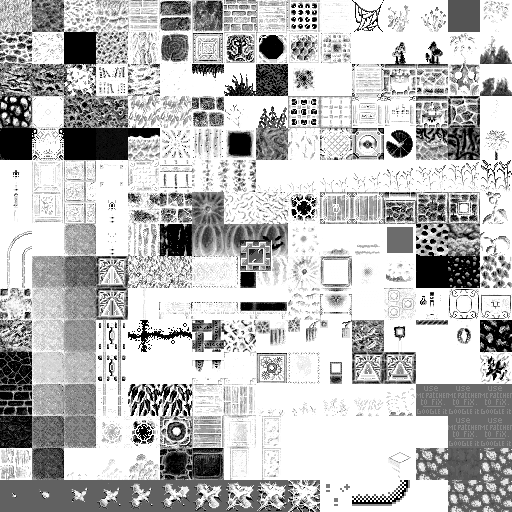
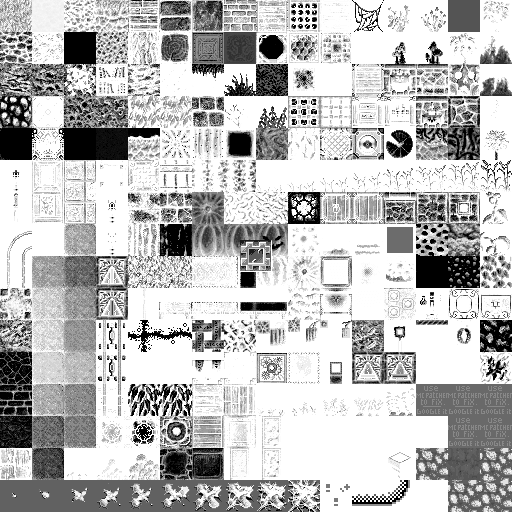
Fancy PBR textures rendering

diff --git a/src/Chunk.cpp b/src/Chunk.cpp
@@ -423,13 +423,13 @@ void Chunk::generateMesh() {
 
 						vec3 blockColor = vec3(1.0f) * ((float)getTorchlight(x + 1, y, z) / 15.0f);
 
-                        ms.vertex(1.0f+x,  0.0f+y,  0.0f+z,  1.0f*ao100, 0.0f, 0.0f,  blockColor.x, blockColor.y, blockColor.z, /*ao100,*/  uv1.x, uv2.y);
-                        ms.vertex(1.0f+x,  1.0f+y,  0.0f+z,  1.0f*ao110, 0.0f, 0.0f,  blockColor.x, blockColor.y, blockColor.z, /*ao110,*/  uv1.x, uv1.y);
-                        ms.vertex(1.0f+x,  1.0f+y,  1.0f+z,  1.0f*ao111, 0.0f, 0.0f,  blockColor.x, blockColor.y, blockColor.z, /*ao111,*/  uv2.x, uv1.y);
+                        ms.vertex(1.0f+x,  0.0f+y,  0.0f+z,  1.0f*ao100, 0.0f, 0.0f,  0.0f, 0.0f, 1.0f, /*ao100,*/  uv1.x, uv2.y);
+                        ms.vertex(1.0f+x,  1.0f+y,  0.0f+z,  1.0f*ao110, 0.0f, 0.0f,  0.0f, 0.0f, 1.0f, /*ao110,*/  uv1.x, uv1.y);
+                        ms.vertex(1.0f+x,  1.0f+y,  1.0f+z,  1.0f*ao111, 0.0f, 0.0f,  0.0f, 0.0f, 1.0f, /*ao111,*/  uv2.x, uv1.y);
 
-                        ms.vertex(1.0f+x,  1.0f+y,  1.0f+z,  1.0f*ao111, 0.0f, 0.0f,  blockColor.x, blockColor.y, blockColor.z, /*ao111,*/  uv2.x, uv1.y);
-                        ms.vertex(1.0f+x,  0.0f+y,  1.0f+z,  1.0f*ao101, 0.0f, 0.0f,  blockColor.x, blockColor.y, blockColor.z, /*ao101,*/  uv2.x, uv2.y);
-                        ms.vertex(1.0f+x,  0.0f+y,  0.0f+z,  1.0f*ao100, 0.0f, 0.0f,  blockColor.x, blockColor.y, blockColor.z, /*ao100,*/  uv1.x, uv2.y);
+                        ms.vertex(1.0f+x,  1.0f+y,  1.0f+z,  1.0f*ao111, 0.0f, 0.0f,  0.0f, 0.0f, 1.0f, /*ao111,*/  uv2.x, uv1.y);
+                        ms.vertex(1.0f+x,  0.0f+y,  1.0f+z,  1.0f*ao101, 0.0f, 0.0f,  0.0f, 0.0f, 1.0f, /*ao101,*/  uv2.x, uv2.y);
+                        ms.vertex(1.0f+x,  0.0f+y,  0.0f+z,  1.0f*ao100, 0.0f, 0.0f,  0.0f, 0.0f, 1.0f, /*ao100,*/  uv1.x, uv2.y);
                     }
                     if (block_negX_Y_Z) { //-x face
                         vec2i textureCoord = block->getTextureCoord(EnumDirection::NEGATIVE_X);
@@ -460,13 +460,13 @@ void Chunk::generateMesh() {
 
 						 vec3 blockColor = vec3(1.0f) * ((float)getTorchlight(x - 1, y, z) / 15.0f);
 
-                        ms.vertex( 0.0f+x,  1.0f+y,  1.0f+z,  -1.0f*ao011, 0.0f, 0.0f,  blockColor.x, blockColor.y, blockColor.z, /*ao011,*/  uv1.x, uv1.y);
-                        ms.vertex( 0.0f+x,  1.0f+y,  0.0f+z,  -1.0f*ao010, 0.0f, 0.0f,  blockColor.x, blockColor.y, blockColor.z, /*ao010,*/  uv2.x, uv1.y);
-                        ms.vertex( 0.0f+x,  0.0f+y,  0.0f+z,  -1.0f*ao000, 0.0f, 0.0f,  blockColor.x, blockColor.y, blockColor.z, /*ao000,*/  uv2.x, uv2.y);
+                        ms.vertex( 0.0f+x,  1.0f+y,  1.0f+z,  -1.0f*ao011, 0.0f, 0.0f,  0.0f, 0.0f, -1.0f, /*ao011,*/  uv1.x, uv1.y);
+                        ms.vertex( 0.0f+x,  1.0f+y,  0.0f+z,  -1.0f*ao010, 0.0f, 0.0f,  0.0f, 0.0f, -1.0f, /*ao010,*/  uv2.x, uv1.y);
+                        ms.vertex( 0.0f+x,  0.0f+y,  0.0f+z,  -1.0f*ao000, 0.0f, 0.0f,  0.0f, 0.0f, -1.0f, /*ao000,*/  uv2.x, uv2.y);
 
-                        ms.vertex( 0.0f+x,  0.0f+y,  0.0f+z,  -1.0f*ao000, 0.0f, 0.0f,  blockColor.x, blockColor.y, blockColor.z, /*ao000,*/  uv2.x, uv2.y);
-                        ms.vertex( 0.0f+x,  0.0f+y,  1.0f+z,  -1.0f*ao001, 0.0f, 0.0f,  blockColor.x, blockColor.y, blockColor.z, /*ao001,*/  uv1.x, uv2.y);
-                        ms.vertex( 0.0f+x,  1.0f+y,  1.0f+z,  -1.0f*ao011, 0.0f, 0.0f,  blockColor.x, blockColor.y, blockColor.z, /*ao011,*/  uv1.x, uv1.y);
+                        ms.vertex( 0.0f+x,  0.0f+y,  0.0f+z,  -1.0f*ao000, 0.0f, 0.0f,  0.0f, 0.0f, -1.0f, /*ao000,*/  uv2.x, uv2.y);
+                        ms.vertex( 0.0f+x,  0.0f+y,  1.0f+z,  -1.0f*ao001, 0.0f, 0.0f,  0.0f, 0.0f, -1.0f, /*ao001,*/  uv1.x, uv2.y);
+                        ms.vertex( 0.0f+x,  1.0f+y,  1.0f+z,  -1.0f*ao011, 0.0f, 0.0f,  0.0f, 0.0f, -1.0f, /*ao011,*/  uv1.x, uv1.y);
                     }
 
                     if (block_X_posY_Z) { //top face
@@ -498,13 +498,13 @@ void Chunk::generateMesh() {
 
 						 vec3 blockColor = vec3(1.0f) * ((float)getTorchlight(x, y + 1, z) / 15.0f);
 
-                        ms.vertex( 1.0f+x,  1.0f+y,  1.0f+z,  0.0f, 1.0f*ao111, 0.0f,  blockColor.x, blockColor.y, blockColor.z, /*ao111,*/  uv2.x, uv1.y);
-                        ms.vertex( 1.0f+x,  1.0f+y,  0.0f+z,  0.0f, 1.0f*ao110, 0.0f,  blockColor.x, blockColor.y, blockColor.z, /*ao110,*/  uv2.x, uv2.y);
-                        ms.vertex( 0.0f+x,  1.0f+y,  0.0f+z,  0.0f, 1.0f*ao010, 0.0f,  blockColor.x, blockColor.y, blockColor.z, /*ao010,*/  uv1.x, uv2.y);
+                        ms.vertex( 1.0f+x,  1.0f+y,  1.0f+z,  0.0f, 1.0f*ao111, 0.0f,  -1.0f, 0.0f, 0.0f, /*ao111,*/  uv2.x, uv1.y);
+                        ms.vertex( 1.0f+x,  1.0f+y,  0.0f+z,  0.0f, 1.0f*ao110, 0.0f,  -1.0f, 0.0f, 0.0f, /*ao110,*/  uv2.x, uv2.y);
+                        ms.vertex( 0.0f+x,  1.0f+y,  0.0f+z,  0.0f, 1.0f*ao010, 0.0f,  -1.0f, 0.0f, 0.0f, /*ao010,*/  uv1.x, uv2.y);
 
-                        ms.vertex( 0.0f+x,  1.0f+y,  0.0f+z,  0.0f, 1.0f*ao010, 0.0f,  blockColor.x, blockColor.y, blockColor.z, /*ao010,*/  uv1.x, uv2.y);
-                        ms.vertex( 0.0f+x,  1.0f+y,  1.0f+z,  0.0f, 1.0f*ao011, 0.0f,  blockColor.x, blockColor.y, blockColor.z, /*ao011,*/  uv1.x, uv1.y);
-                        ms.vertex( 1.0f+x,  1.0f+y,  1.0f+z,  0.0f, 1.0f*ao111, 0.0f,  blockColor.x, blockColor.y, blockColor.z, /*ao111,*/  uv2.x, uv1.y);
+                        ms.vertex( 0.0f+x,  1.0f+y,  0.0f+z,  0.0f, 1.0f*ao010, 0.0f,  -1.0f, 0.0f, 0.0f, /*ao010,*/  uv1.x, uv2.y);
+                        ms.vertex( 0.0f+x,  1.0f+y,  1.0f+z,  0.0f, 1.0f*ao011, 0.0f,  -1.0f, 0.0f, 0.0f, /*ao011,*/  uv1.x, uv1.y);
+                        ms.vertex( 1.0f+x,  1.0f+y,  1.0f+z,  0.0f, 1.0f*ao111, 0.0f,  -1.0f, 0.0f, 0.0f, /*ao111,*/  uv2.x, uv1.y);
                     }
                     if (block_X_negY_Z) { //bottom face
                         vec2i textureCoord = block->getTextureCoord(EnumDirection::NEGATIVE_Y);
@@ -535,13 +535,13 @@ void Chunk::generateMesh() {
 
 						 vec3 blockColor = vec3(1.0f) * ((float)getTorchlight(x, y - 1, z) / 15.0f);
 
-                        ms.vertex( 0.0f+x,  0.0f+y,  0.0f+z,  0.0f, -1.0f*ao000, 0.0f,  blockColor.x, blockColor.y, blockColor.z, /*ao000,*/  uv1.x, uv2.y);
-                        ms.vertex( 1.0f+x,  0.0f+y,  0.0f+z,  0.0f, -1.0f*ao100, 0.0f,  blockColor.x, blockColor.y, blockColor.z, /*ao100,*/  uv2.x, uv2.y);
-                        ms.vertex( 1.0f+x,  0.0f+y,  1.0f+z,  0.0f, -1.0f*ao101, 0.0f,  blockColor.x, blockColor.y, blockColor.z, /*ao101,*/  uv2.x, uv1.y);
+                        ms.vertex( 0.0f+x,  0.0f+y,  0.0f+z,  0.0f, -1.0f*ao000, 0.0f,  1.0f, 0.0f, 0.0f, /*ao000,*/  uv1.x, uv2.y);
+                        ms.vertex( 1.0f+x,  0.0f+y,  0.0f+z,  0.0f, -1.0f*ao100, 0.0f,  1.0f, 0.0f, 0.0f, /*ao100,*/  uv2.x, uv2.y);
+                        ms.vertex( 1.0f+x,  0.0f+y,  1.0f+z,  0.0f, -1.0f*ao101, 0.0f,  1.0f, 0.0f, 0.0f, /*ao101,*/  uv2.x, uv1.y);
 
-                        ms.vertex( 1.0f+x,  0.0f+y,  1.0f+z,  0.0f, -1.0f*ao101, 0.0f,  blockColor.x, blockColor.y, blockColor.z, /*ao101,*/  uv2.x, uv1.y);
-                        ms.vertex( 0.0f+x,  0.0f+y,  1.0f+z,  0.0f, -1.0f*ao001, 0.0f,  blockColor.x, blockColor.y, blockColor.z, /*ao001,*/  uv1.x, uv1.y);
-                        ms.vertex( 0.0f+x,  0.0f+y,  0.0f+z,  0.0f, -1.0f*ao000, 0.0f,  blockColor.x, blockColor.y, blockColor.z, /*ao000,*/  uv1.x, uv2.y);
+                        ms.vertex( 1.0f+x,  0.0f+y,  1.0f+z,  0.0f, -1.0f*ao101, 0.0f,  1.0f, 0.0f, 0.0f, /*ao101,*/  uv2.x, uv1.y);
+                        ms.vertex( 0.0f+x,  0.0f+y,  1.0f+z,  0.0f, -1.0f*ao001, 0.0f,  1.0f, 0.0f, 0.0f, /*ao001,*/  uv1.x, uv1.y);
+                        ms.vertex( 0.0f+x,  0.0f+y,  0.0f+z,  0.0f, -1.0f*ao000, 0.0f,  1.0f, 0.0f, 0.0f, /*ao000,*/  uv1.x, uv2.y);
                     }
 
                     if (block_X_Y_negZ) { //-z face
@@ -573,13 +573,13 @@ void Chunk::generateMesh() {
 
 						 vec3 blockColor = vec3(1.0f) * ((float)getTorchlight(x, y, z - 1) / 15.0f);
 
-                        ms.vertex( 1.0f+x,  1.0f+y,  0.0f+z,  0.0f, 0.0f, -1.0f*ao110,  blockColor.x, blockColor.y, blockColor.z, /*ao110,*/  uv2.x, uv1.y);
-                        ms.vertex( 1.0f+x,  0.0f+y,  0.0f+z,  0.0f, 0.0f, -1.0f*ao100,  blockColor.x, blockColor.y, blockColor.z, /*ao100,*/  uv2.x, uv2.y);
-                        ms.vertex( 0.0f+x,  0.0f+y,  0.0f+z,  0.0f, 0.0f, -1.0f*ao000,  blockColor.x, blockColor.y, blockColor.z, /*ao000,*/  uv1.x, uv2.y);
+                        ms.vertex( 1.0f+x,  1.0f+y,  0.0f+z,  0.0f, 0.0f, -1.0f*ao110,  -1.0f, 0.0f, 0.0f, /*ao110,*/  uv2.x, uv1.y);
+                        ms.vertex( 1.0f+x,  0.0f+y,  0.0f+z,  0.0f, 0.0f, -1.0f*ao100,  -1.0f, 0.0f, 0.0f, /*ao100,*/  uv2.x, uv2.y);
+                        ms.vertex( 0.0f+x,  0.0f+y,  0.0f+z,  0.0f, 0.0f, -1.0f*ao000,  -1.0f, 0.0f, 0.0f, /*ao000,*/  uv1.x, uv2.y);
 
-                        ms.vertex( 0.0f+x,  0.0f+y,  0.0f+z,  0.0f, 0.0f, -1.0f*ao000,  blockColor.x, blockColor.y, blockColor.z, /*ao000,*/  uv1.x, uv2.y);
-                        ms.vertex( 0.0f+x,  1.0f+y,  0.0f+z,  0.0f, 0.0f, -1.0f*ao010,  blockColor.x, blockColor.y, blockColor.z, /*ao010,*/  uv1.x, uv1.y);
-                        ms.vertex( 1.0f+x,  1.0f+y,  0.0f+z,  0.0f, 0.0f, -1.0f*ao110,  blockColor.x, blockColor.y, blockColor.z, /*ao110,*/  uv2.x, uv1.y);
+                        ms.vertex( 0.0f+x,  0.0f+y,  0.0f+z,  0.0f, 0.0f, -1.0f*ao000,  -1.0f, 0.0f, 0.0f, /*ao000,*/  uv1.x, uv2.y);
+                        ms.vertex( 0.0f+x,  1.0f+y,  0.0f+z,  0.0f, 0.0f, -1.0f*ao010,  -1.0f, 0.0f, 0.0f, /*ao010,*/  uv1.x, uv1.y);
+                        ms.vertex( 1.0f+x,  1.0f+y,  0.0f+z,  0.0f, 0.0f, -1.0f*ao110,  -1.0f, 0.0f, 0.0f, /*ao110,*/  uv2.x, uv1.y);
                     }
                     if (block_X_Y_posZ) { //+z face
                         vec2i textureCoord = block->getTextureCoord(EnumDirection::POSITIVE_Z);
@@ -610,13 +610,13 @@ void Chunk::generateMesh() {
 
 						 vec3 blockColor = vec3(1.0f) * ((float)getTorchlight(x, y, z + 1) / 15.0f);
 
-                        ms.vertex( 0.0f+x,  0.0f+y,  1.0f+z,  0.0f, 0.0f, 1.0f*ao001,  blockColor.x, blockColor.y, blockColor.z, /*ao001,*/  uv1.x, uv2.y);
-                        ms.vertex( 1.0f+x,  0.0f+y,  1.0f+z,  0.0f, 0.0f, 1.0f*ao101,  blockColor.x, blockColor.y, blockColor.z, /*ao101,*/  uv2.x, uv2.y);
-                        ms.vertex( 1.0f+x,  1.0f+y,  1.0f+z,  0.0f, 0.0f, 1.0f*ao111,  blockColor.x, blockColor.y, blockColor.z, /*ao111,*/  uv2.x, uv1.y);
+                        ms.vertex( 0.0f+x,  0.0f+y,  1.0f+z,  0.0f, 0.0f, 1.0f*ao001,  1.0f, 0.0f, 0.0f, /*ao001,*/  uv1.x, uv2.y);
+                        ms.vertex( 1.0f+x,  0.0f+y,  1.0f+z,  0.0f, 0.0f, 1.0f*ao101,  1.0f, 0.0f, 0.0f, /*ao101,*/  uv2.x, uv2.y);
+                        ms.vertex( 1.0f+x,  1.0f+y,  1.0f+z,  0.0f, 0.0f, 1.0f*ao111,  1.0f, 0.0f, 0.0f, /*ao111,*/  uv2.x, uv1.y);
 
-                        ms.vertex( 1.0f+x,  1.0f+y,  1.0f+z,  0.0f, 0.0f, 1.0f*ao111,  blockColor.x, blockColor.y, blockColor.z, /*ao111,*/  uv2.x, uv1.y);
-                        ms.vertex( 0.0f+x,  1.0f+y,  1.0f+z,  0.0f, 0.0f, 1.0f*ao011,  blockColor.x, blockColor.y, blockColor.z, /*ao011,*/  uv1.x, uv1.y);
-                        ms.vertex( 0.0f+x,  0.0f+y,  1.0f+z,  0.0f, 0.0f, 1.0f*ao001,  blockColor.x, blockColor.y, blockColor.z, /*ao001,*/  uv1.x, uv2.y);
+                        ms.vertex( 1.0f+x,  1.0f+y,  1.0f+z,  0.0f, 0.0f, 1.0f*ao111,  1.0f, 0.0f, 0.0f, /*ao111,*/  uv2.x, uv1.y);
+                        ms.vertex( 0.0f+x,  1.0f+y,  1.0f+z,  0.0f, 0.0f, 1.0f*ao011,  1.0f, 0.0f, 0.0f, /*ao011,*/  uv1.x, uv1.y);
+                        ms.vertex( 0.0f+x,  0.0f+y,  1.0f+z,  0.0f, 0.0f, 1.0f*ao001,  1.0f, 0.0f, 0.0f, /*ao001,*/  uv1.x, uv2.y);
                     }
                 }
             }

diff --git a/src/Client.cpp b/src/Client.cpp
@@ -21,6 +21,9 @@ static Shader blockShader;
 static Shader skyboxShader;
 static Texture texture;
 static Texture texture_r;
+static Texture texture_m;
+static Texture texture_e;
+static Texture texture_n;
 Camera Client::camera;
 static Player *player;
 
@@ -64,6 +67,8 @@ void Client::init() {
     BlockRegistry::registerBlock(6, new SimpleBlock({4, 1}, "Wood", true));
     BlockRegistry::registerBlock(7, new SimpleBlock({4, 3}, "Leaves", false));
     BlockRegistry::registerBlock(8, new SimpleBlock({9, 6}, "Glowstone", true));
+    BlockRegistry::registerBlock(9, new SimpleBlock({6, 1}, "Iron", true));
+    BlockRegistry::registerBlock(10, new SimpleBlock({7, 1}, "Gold", true));
 
     json j = Util::loadJsonFile("settings.json");
     Settings::load(j);
@@ -71,7 +76,7 @@ void Client::init() {
     Renderer::init(Settings::shadows, Settings::shadow_resolution, 1400, 800);
     Renderer::setSun({normalize(vec3(-0.4f, -0.7f, -1.0f)), vec3(1.4f, 1.3f, 1.0f) * 3.0f});
 
-    Renderer::settings.bloom = false;
+    Renderer::settings.bloom = Settings::fancy_graphics;
     Renderer::settings.bloomStrength = 0.1f;
     Renderer::settings.fxaa = Settings::fancy_graphics;
     Renderer::settings.ssao = Settings::fancy_graphics;
@@ -83,9 +88,13 @@ void Client::init() {
     skyboxShader.loadFile("resources/skybox.vsh", "resources/skybox.fsh");
     texture.load("resources/terrain.png", true);
 	texture_r.load("resources/terrain_r.png", true);
+    texture_m.load("resources/terrain_m.png", true);
+    texture_e.load("resources/terrain_e.png", true);
+    texture_n.load("resources/terrain_n.png", true);
 
     nearMaterial.setShader(blockShader);
-	nearMaterial.setPBRUniforms(texture, 0.9f, 0.0f);
+	nearMaterial.setPBRUniforms(texture, texture_r, texture_m, texture_n);
+	nearMaterial.setUniformTexture("emissionTex", texture_e, 5);
 
     farMaterial.setShader(blockShader);
 	farMaterial.setPBRUniforms(texture, 0.9f, 0.0f);
@@ -117,7 +126,6 @@ void Client::run(std::string username, std::string ip) {
         float currentFrameTime = Window::getTime();
         deltaTime = currentFrameTime - lastFrameTime;
         lastFrameTime = currentFrameTime;
-
 
         camera.dimensions = {(float)Window::getWindowSize().x, (float)Window::getWindowSize().y};
 
